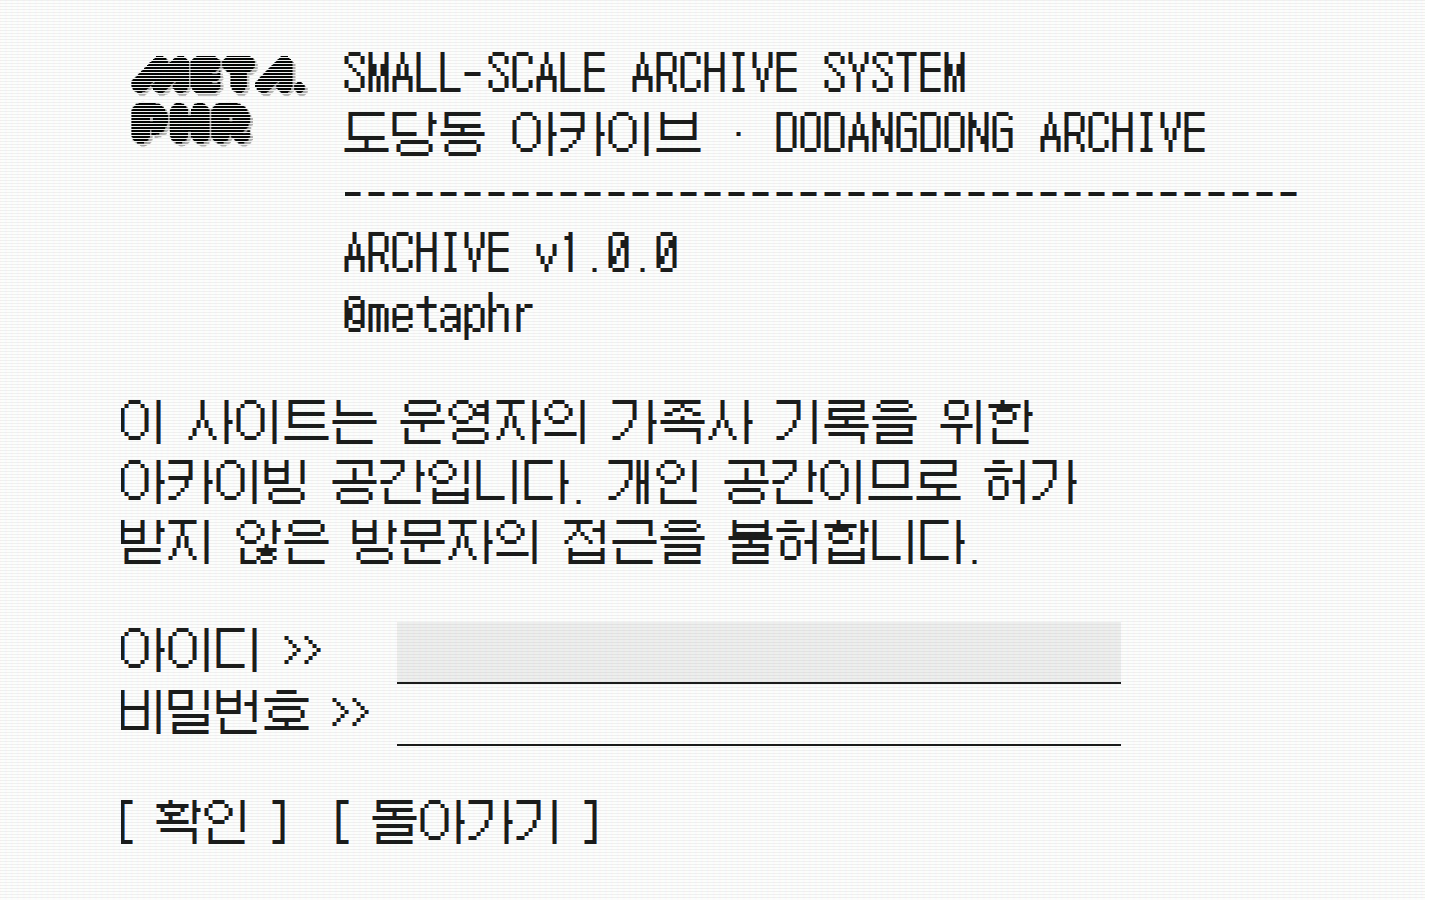
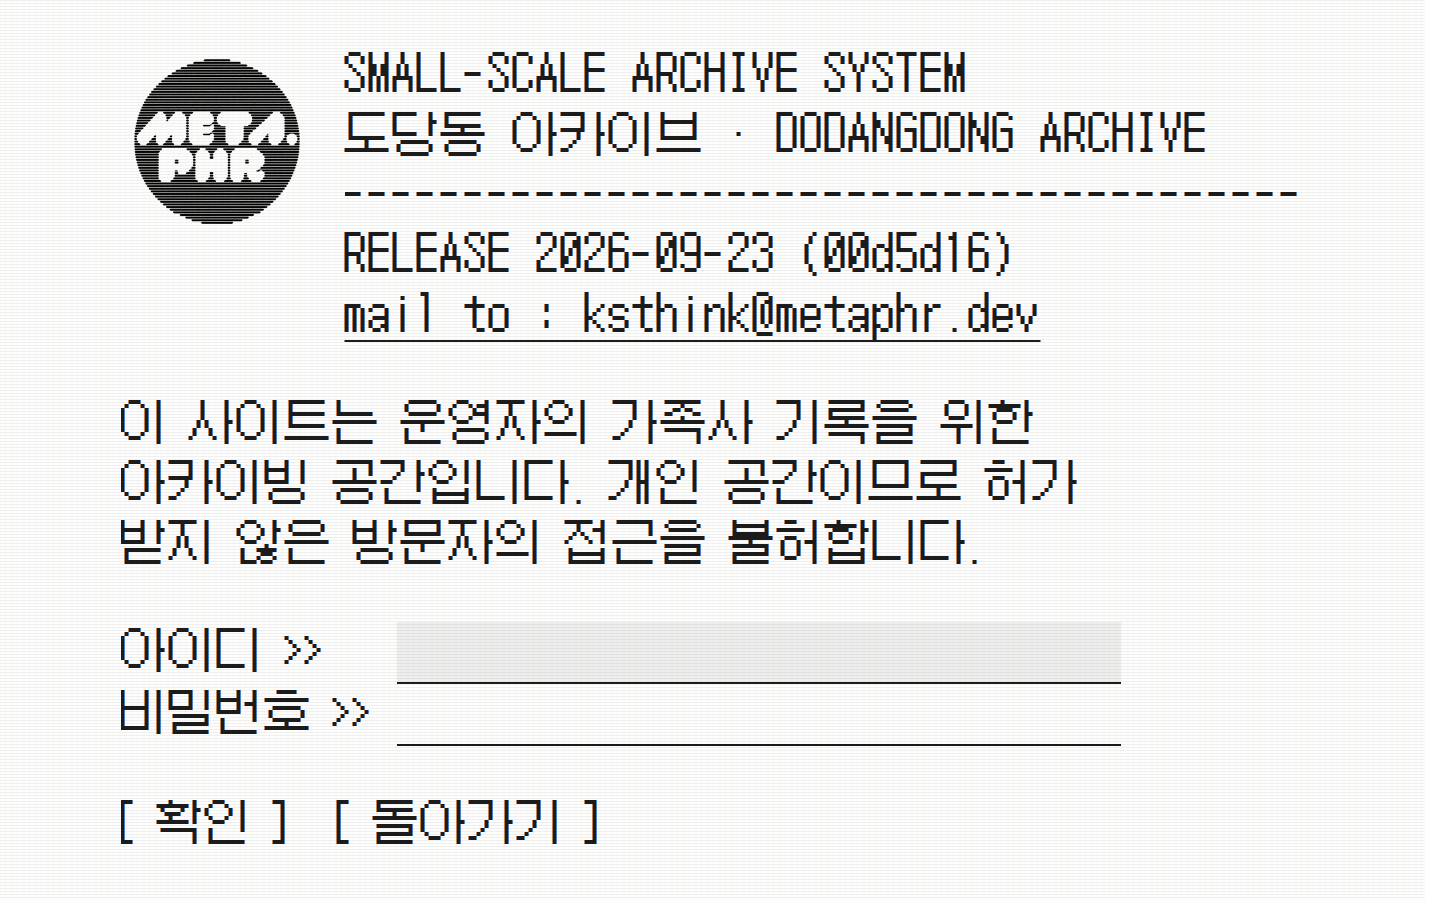
인트로 로고를 주사선 둥근 판으로 바꾸고 머리글을 줄인다
로고는 이 화면 전용 그림(/brand/metaphr-crt.png, 384px)이다. 그림에 이미
줄이 그어져 있으므로 CSS 마스크는 걷어낸다. 꼬리말의 낱말형 로고는 그대로다.

머리글에서 ARCHIVE v1.0.0 줄을 뺀다. 판번호는 화면에 내지 않고 GitHub
릴리스에만 쓴다 — 지금 돌고 있는 판은 RELEASE 날짜 (커밋) 로 짚는다.
마지막 줄은 ©metaphr 대신 mail to : ksthink@metaphr.dev 를 그대로 적는다.

Changed region(s): [[0.375, 0.2489, 0.7188, 0.3733], [0.0938, 0.0622, 0.2188, 0.2489], [0.2188, 0.2489, 0.375, 0.3733]]

diff --git a/src/app/intro/intro-terminal.tsx b/src/app/intro/intro-terminal.tsx
@@ -13,11 +13,11 @@ const HEAD = [
 ];
 
 /**
- * 판번호와 갱신 날짜는 빌드할 때 박힌다(next.config.ts).
- * 판번호는 package.json = GitHub 릴리스 태그, 날짜는 빌드한 때 = 배포한 때다.
+ * 배포한 날짜와 배포번호는 빌드할 때 박힌다(next.config.ts).
+ * 날짜는 빌드한 때 = 배포한 때, 배포번호는 그때 올린 커밋 일곱 자리다.
  */
-const RELEASE = process.env.RELEASE ?? 'v0.0.0';
 const BUILT_AT = process.env.BUILT_AT;
+const COMMIT = process.env.COMMIT ?? 'unknown';
 /** 한국 시간의 날짜만. 서버와 브라우저가 같은 값을 내야 하므로 로캘에 기대지 않는다. */
 const UPDATED = new Date(new Date(BUILT_AT ?? 0).getTime() + 9 * 60 * 60 * 1000).toISOString().slice(0, 10);
 
@@ -75,7 +75,7 @@ export default function IntroTerminal({ next }: { next: string }) {
       <div className="intro-body">
         <header className="intro-head">
           {/* eslint-disable-next-line @next/next/no-img-element */}
-          <img className="intro-logo" src="/brand/metaphr.png" alt="META.PHR" width={504} height={288} />
+          <img className="intro-logo" src="/brand/metaphr-crt.png" alt="META.PHR" width={384} height={384} />
           <div>
             <h1 className="intro-line" style={{ '--i': 0 } as React.CSSProperties}>{HEAD[0]}</h1>
             {HEAD.slice(1).map((line, i) => (
@@ -83,10 +83,10 @@ export default function IntroTerminal({ next }: { next: string }) {
                 style={{ '--i': i + 1 } as React.CSSProperties}>{line}</p>
             ))}
             <p className="intro-line" style={{ '--i': 3 } as React.CSSProperties}>
-              ARCHIVE {RELEASE} · UPDATED {UPDATED}
+              RELEASE {UPDATED} ({COMMIT})
             </p>
             <p className="intro-line" style={{ '--i': 4 } as React.CSSProperties}>
-              <a className="intro-mail" href="mailto:ksthink@metaphr.dev">©metaphr</a>
+              <a className="intro-mail" href="mailto:ksthink@metaphr.dev">mail to : ksthink@metaphr.dev</a>
             </p>
           </div>
         </header>

diff --git a/next.config.ts b/next.config.ts
@@ -1,17 +1,27 @@
+import { execSync } from "node:child_process";
 import type { NextConfig } from "next";
-import pkg from "./package.json" with { type: "json" };
+
+/** 지금 올린 판의 커밋. Vercel 은 환경변수로 주고, 내 컴퓨터에서는 git 에게 묻는다. */
+function commit(): string {
+  const fromVercel = process.env.VERCEL_GIT_COMMIT_SHA;
+  if (fromVercel) return fromVercel.slice(0, 7);
+  try {
+    return execSync("git rev-parse --short=7 HEAD", { encoding: "utf8" }).trim();
+  } catch {
+    return "unknown";
+  }
+}
 
 /**
- * 인트로 머리글에 박히는 두 값. 빌드할 때 한 번 정해져 그대로 굳는다.
+ * 인트로 머리글에 박히는 값들. 빌드할 때 한 번 정해져 그대로 굳는다.
  *
- * - RELEASE: package.json 의 판번호. GitHub 릴리스 태그(v1.0.0)와 같은 값이다.
- *   올릴 때는 `npm version` 으로 올리고 같은 이름의 릴리스를 만든다(README 참고).
  * - BUILT_AT: 빌드한 때 = 배포한 때. 무엇을 고쳤든 올리면 저절로 갱신된다.
+ * - COMMIT: 그때 올린 커밋 일곱 자리. 화면에 보이는 것이 정확히 어느 판인지 짚을 수 있다.
  */
 const nextConfig: NextConfig = {
   env: {
-    RELEASE: `v${pkg.version}`,
     BUILT_AT: new Date().toISOString(),
+    COMMIT: commit(),
   },
 };
 

diff --git a/src/app/intro/intro.css b/src/app/intro/intro.css
@@ -82,12 +82,10 @@
 /* 좁은 화면에서 머리글이 잘리지 않게 — 줄을 바꾼다 */
 .intro-head > div { min-width: 0; overflow-wrap: anywhere; }
 .intro-logo {
+  /* 그림에 이미 주사선이 그어져 있다 — CSS 로 덧입히지 않는다(무늬가 겹쳐 어른거린다) */
   display: block;
   height: auto;
   width: 192px;
-  /* 로고에도 주사선을 입힌다 — 화면 전체에 깔린 무늬(3px 주기)와 같은 결이다 */
-  mask-image: repeating-linear-gradient(to bottom, #000 0 2px, transparent 2px 3px);
-  -webkit-mask-image: repeating-linear-gradient(to bottom, #000 0 2px, transparent 2px 3px);
 }
 .intro-head p, .intro-head h1 { font: inherit; margin: 0; }
 /* 기계가 제 이름을 대는 머리글 — 고정폭이라야 줄이 가지런하다 */

diff --git a/README.md b/README.md
@@ -164,17 +164,22 @@ ADMIN_PASSWORD='…' node scripts/backfill-thumbs.mjs --dry-run
 
 ## 판번호
 
-인트로 머리글에 `ARCHIVE v1.0.0 · UPDATED 2026-09-23` 한 줄이 박힌다. 두 값의 출처는 이렇다.
+인트로 머리글에 지금 돌고 있는 판이 한 줄로 박힌다.
+
+```
+RELEASE 2026-09-23 (00d5d16)
+```
 
 | | 어디서 오나 |
 | --- | --- |
-| 판번호 | `package.json` 의 `version`. GitHub 릴리스 태그(`v1.0.0`)와 같은 값으로 맞춘다 |
-| 갱신 날짜 | **빌드한 때** = 배포한 때(한국 시간). 무엇을 고쳤든 올리면 저절로 바뀐다 |
+| 날짜 | **빌드한 때** = 배포한 때(한국 시간). 무엇을 고쳤든 올리면 저절로 바뀐다 |
+| 배포번호 `(00d5d16)` | 그때 올린 커밋 일곱 자리. Vercel 에서는 `VERCEL_GIT_COMMIT_SHA`, 내 컴퓨터에서는 `git rev-parse` |
 
-둘 다 `next.config.ts` 가 빌드할 때 한 번 정해 굳힌다(`RELEASE`, `BUILT_AT`). 화면에서 시각을 다시 재지 않으므로
-서버와 브라우저가 늘 같은 값을 그린다.
+둘 다 `next.config.ts` 가 빌드할 때 한 번 정해 굳힌다(`BUILT_AT`, `COMMIT`). 화면에서 시각을 다시 재지 않으므로
+서버와 브라우저가 늘 같은 값을 그린다. **화면에 보이는 것이 정확히 어느 판인지는 배포번호로 짚는다** —
+`git show 00d5d16` 하면 그 배포에 무엇이 들어 있는지 그대로 나온다.
 
-판을 올릴 때는 두 곳을 같이 움직인다.
+판번호(`package.json` 의 `version`)는 화면에 내지 않고 GitHub 릴리스에만 쓴다. 판을 올릴 때는 두 곳을 같이 움직인다.
 
 ```bash
 npm version 1.1.0 --no-git-tag-version   # package.json

diff --git a/DESIGN.md b/DESIGN.md
@@ -324,9 +324,11 @@
 | 움직인다 | 8초마다 훑고 지나가는 줄과, 첫 방문의 부팅 연출. `globals.css` 의 `* { animation: none !important }` 를 `.intro` 안에서만 `!important` 로 되돌린다 |
 
 - 주사선은 가만히 깔린 무늬다. **깜빡이지 않는다** — 화면이 떠는 효과는 두지 않는다.
-- 왼쪽 위는 META.PHR 로고다. 화면에 깔린 것과 같은 3px 주기의 주사선을 CSS 마스크로 입혀,
-  로고도 낡은 화면 속에 있는 것처럼 보이게 한다(파일은 그대로 두고 화면에서만 입힌다).
-- 오른쪽은 기계가 제 이름을 대는 머리글이다.
+- 왼쪽 위는 META.PHR 로고다. 주사선이 그어진 둥근 판이며, 이 화면 전용 그림이다
+  (`/brand/metaphr-crt.png`, 384px). 그림에 이미 줄이 그어져 있으므로 CSS 로 덧입히지 않는다.
+  꼬리말의 낱말형 로고는 그대로다.
+- 오른쪽은 기계가 제 이름을 대는 머리글이다. 배포한 날짜와 배포번호(커밋 일곱 자리)를 적고,
+  마지막 줄 `mail to : ksthink@metaphr.dev` 는 편지 링크다(대괄호 단추와 헷갈리지 않게 밑줄로 표시한다).
 - 단추는 `[ 입장 ]` 처럼 대괄호로 감싼다. 커서는 네모(`█`)이고, **깜빡이지 않는다.**
 - 입력칸은 테두리 없이 밑줄(2px) 하나로 긋는다.
 - 부팅 연출(줄이 한 줄씩 떨어지는 것)은 **그 브라우저의 첫 방문에만** 돈다. 두 번째부터는 곧바로 다 그려진다.
